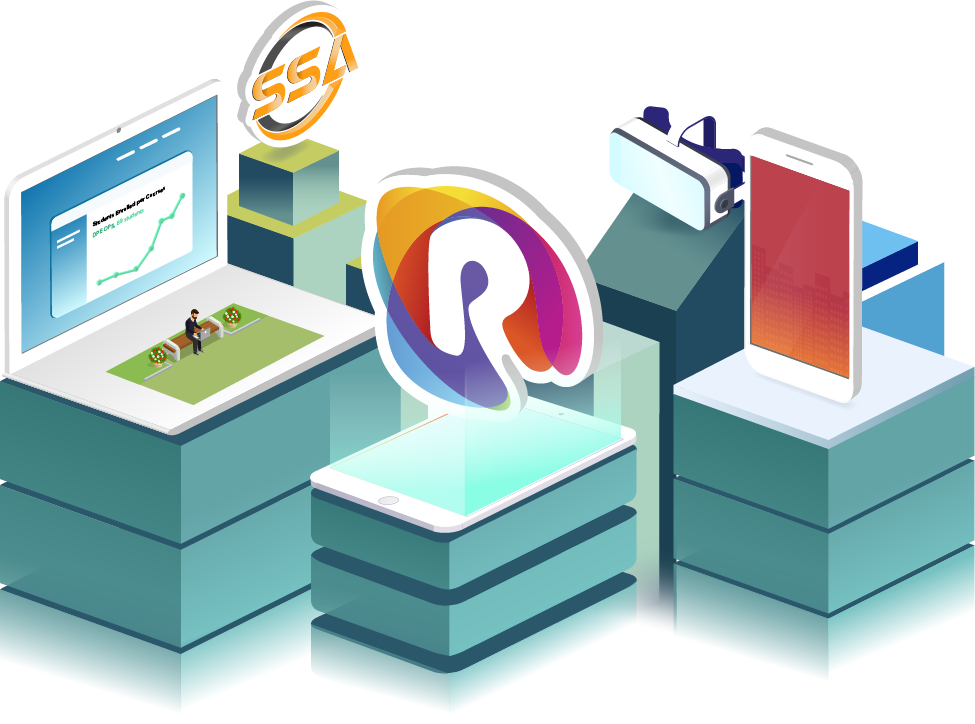
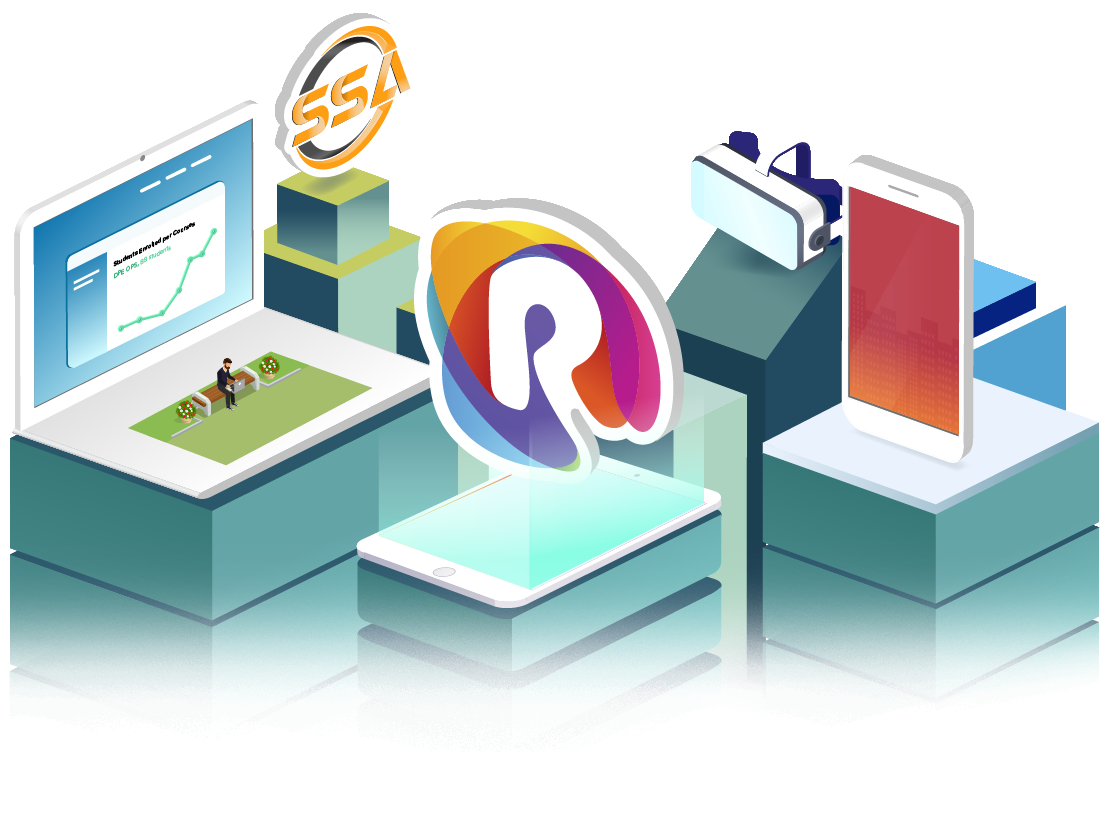
.

diff --git a/modules/Test/submodules/Octocat/views/octocats/index.blade.php b/modules/Test/submodules/Octocat/views/octocats/index.blade.php
@@ -6,7 +6,7 @@
     <v-container fluid grid-list-lg>
         <v-layout row wrap>
             <v-flex xs12>
-                <v-card flat class="elevation-1">
+                <v-card flat class="elevation-1 mb-3">
                     <v-bottom-sheet v-model="sheet">
                         <v-btn slot="activator" color="purple" dark>Click me</v-btn>
                         <v-list>
@@ -25,6 +25,22 @@
                             </v-list-tile>
                         </v-list>
                     </v-bottom-sheet>
+                </v-card>
+
+                <v-card flat>
+                    <v-card-text>
+                        <h1
+                            v-text="new Date()"
+                            class="page-title subheading">
+
+                        </h1>
+                    </v-card-text>
+                    <v-card-text>
+                        <h1 class="subheading page-title" v-text="new Date()"></h1>
+                        <ul>
+                            <li v-for="tasks in task"></li>
+                        </ul>
+                    </v-card-text>
                 </v-card>
             </v-flex>
 

diff --git a/themes/ripples/views/templates/home.blade.php b/themes/ripples/views/templates/home.blade.php
@@ -70,7 +70,7 @@ Version: 1.0
                                 <v-flex sm6 xs12>
                                     <v-card flat class="transparent" data-aos="fade-left">
                                         {{-- <img src="{{ assets('frontier/images/placeholder/iso/landing-page.png') }}" alt="" width="100%"> --}}
-                                        <img src="{{ assets('frontier/images/placeholder/iso/cityillustration.png') }}" alt="" width="100%">
+                                        <img src="{{ assets('frontier/images/placeholder/iso/landing-page.png') }}" alt="" width="100%">
                                     </v-card>
                                 </v-flex>
                             </v-layout>
